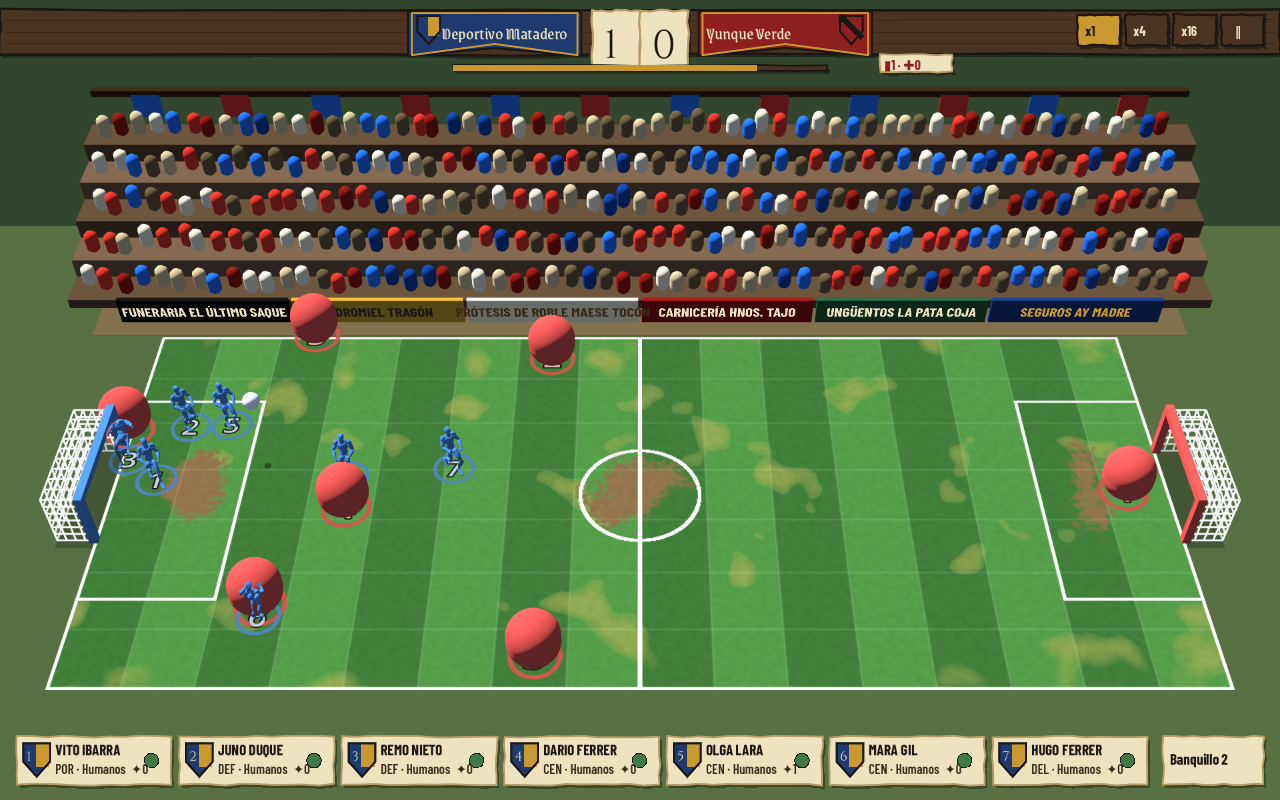
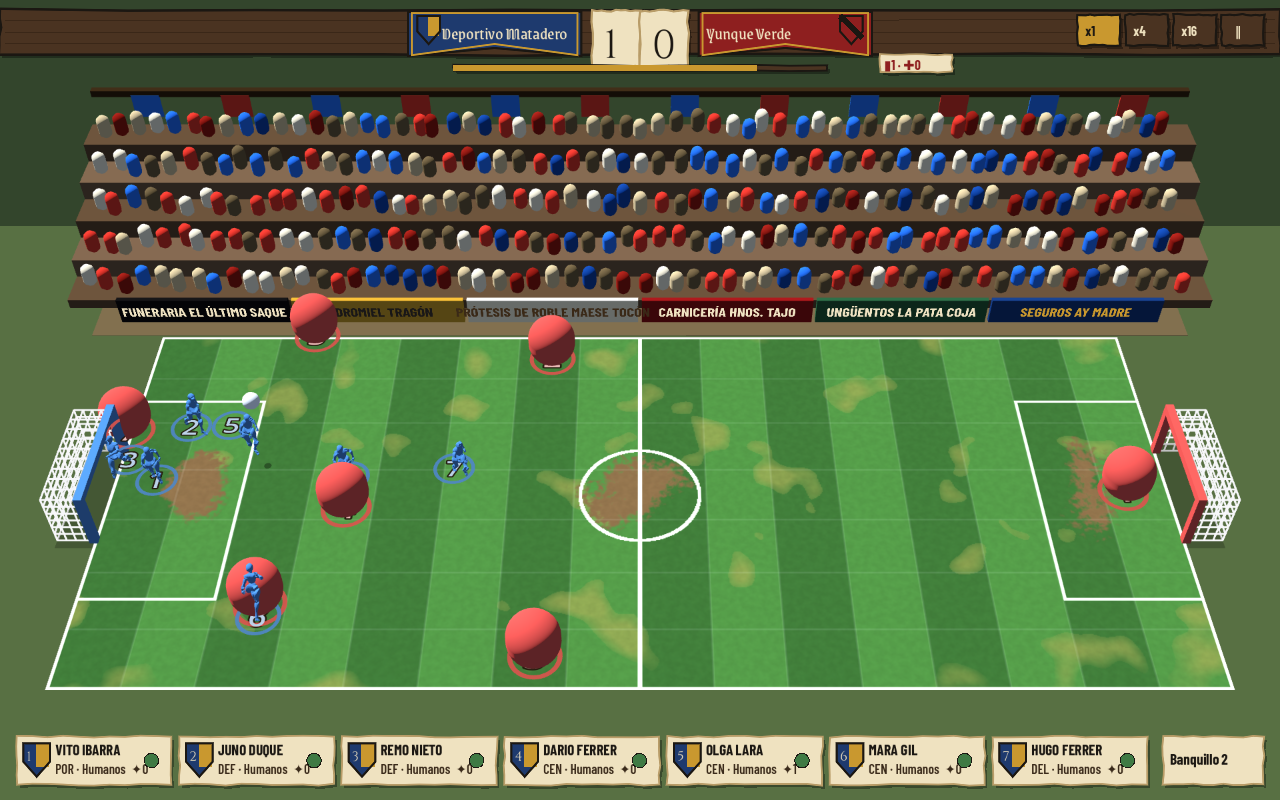
chore(game): capturas con el personaje de fútbol, y el estado al día
Claude-Session: https://claude.ai/code/session_01WB28ukztfAkxX7LkbMPfzV

diff --git a/docs/project-state.md b/docs/project-state.md
@@ -966,3 +966,37 @@ en 1.280 px—, y los modelos salían en **T-pose** porque nadie había llamado 
 arreglado; lo primero es la decisión que la maqueta pone sobre la mesa: **o la cámara se acerca, o las
 criaturas son más corpulentas que un humano de proporciones reales**. Las proporciones de raza ya lo dicen
 (humano 12 de ancho por 17 de alto: un cuerpo mucho más recio que un maniquí de 1,83 por 0,5).
+
+### Segundo pack: el de fútbol (23 sep 2026, mismo día)
+
+El revisor dejó después un **Soccer Game Pack de Mixamo** (`C:\Users\urban\Downloads\NewAnimations`) y
+la maqueta pasa a usarlo: personaje `X Bot` con malla y **15 clips de fútbol de verdad** en
+`Game/models/soccer/` — trote, carrera, chut, remate de cabeza, entrada, trompicón, cuerpo en el suelo,
+levantarse, recepción, saque de banda, penalti y cuatro de portero.
+
+**Los clips se aplican sin reorientar nada, y eso se midió antes de escribir el código** con una sonda
+nueva (`Scenes/SondaModelo.tscn`, `Game/Screens/ModelProbe.cs`): personaje y clips traen los **mismos 65
+huesos** `mixamorig_*` y las pistas apuntan a `Skeleton3D:mixamorig_…`, que es exactamente la jerarquía del
+personaje. Se cargan una vez en una `AnimationLibrary` compartida y cada jugador la monta. Si no hubieran
+coincidido, habría hecho falta reescribir las rutas o reorientar con `SkeletonProfileHumanoid`.
+
+**La sonda se queda** porque el patrón se repite: dos veces con el pack anterior se perdió una ronda de
+capturas de diez minutos por suponer lo que trae un fichero importado (el importador de glTF **quita el
+sufijo `_Loop`** de los nombres; un modelo sin animación arrancada se queda en T).
+
+Mapeo por estado de la traza (`StateAt`, el modelo no decide nada, RT-014): quieto → espera de campo o
+**de portero** según el puesto · moviéndose → trote o carrera según la velocidad real, con el ritmo
+escalado · disparando o pasando → chut · entrando → entrada · derribado o lesionado → trompicón y, cuando
+su propio reloj acaba, cuerpo en el suelo en bucle.
+
+**Lo que aún falta**: no hay **celebración** en el pack (se queda en la espera) y la **estirada del
+portero** no está enganchada porque depende de un evento —una parada— y no del estado del jugador, que es
+lo único que la maqueta mira. El pack de Quaternius se conserva **sin usar**: trae un juego `Zombie_*`
+completo que le vendrá bien a los no-muertos.
+
+**Y la pregunta de skins, contestada al revisor**: Mixamo tiene un **auto-rigger** que engancha cualquier
+malla humanoide a este mismo esqueleto, así que el personaje es sustituible sin tocar código —la tabla de
+clips es lo único que sabe de ficheros—. Fuentes CC0 que encajan con las razas: KayKit (esqueletos, orcos),
+Quaternius, Kenney. **Aviso de licencia**: el material de Mixamo se usa dentro de un juego pero no se
+redistribuye como asset; para enviar en Steam, CC0 es el camino sin ataduras y esto es un marcador de
+posición.
